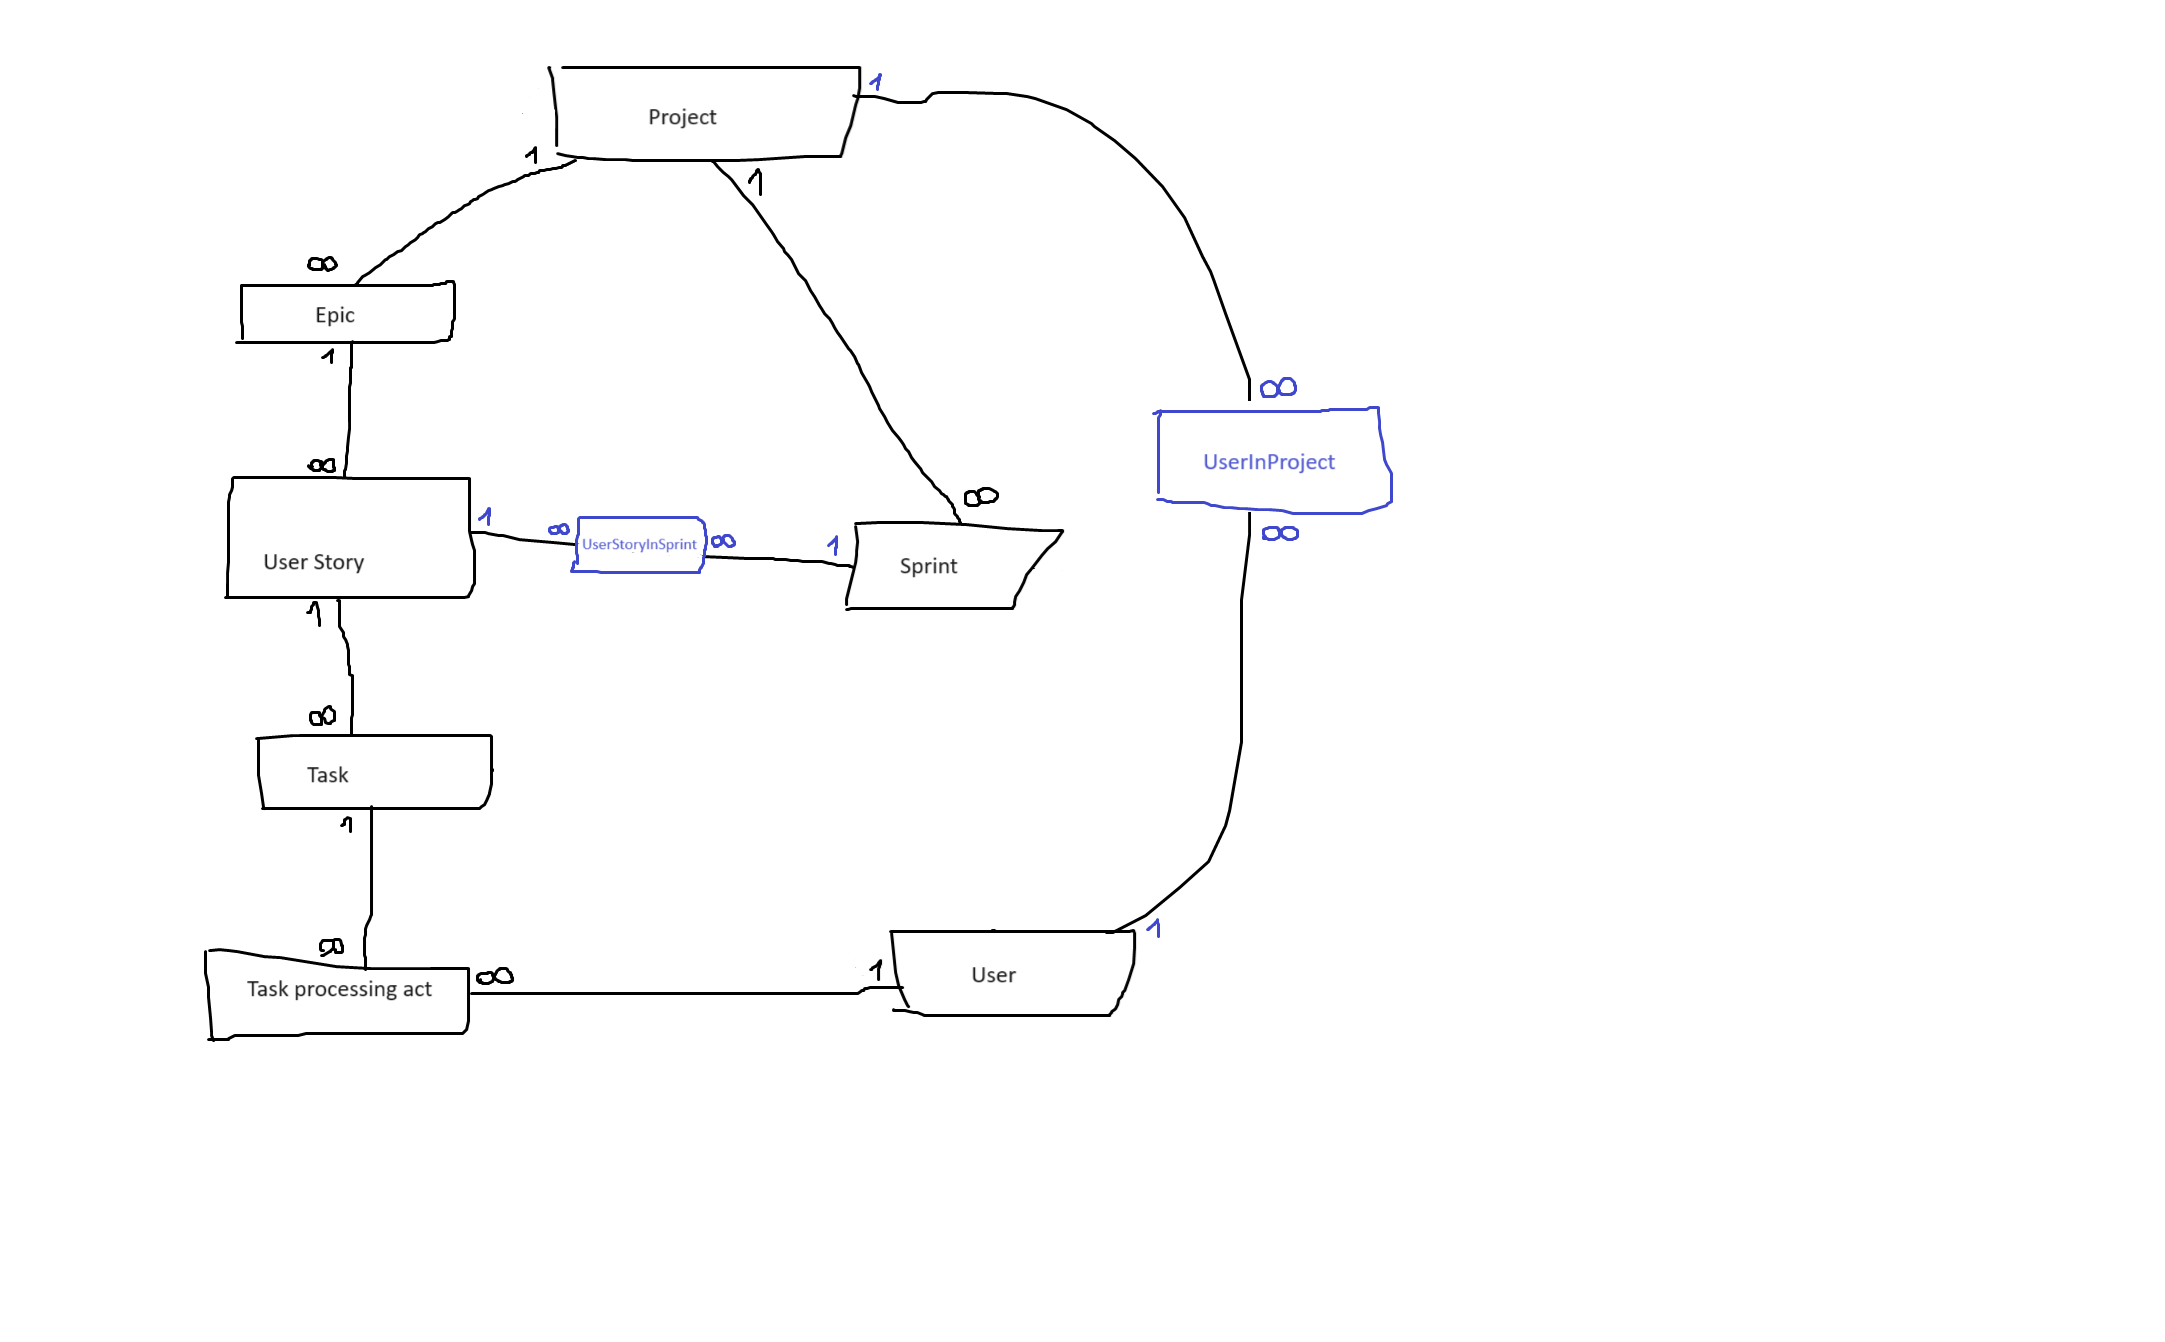
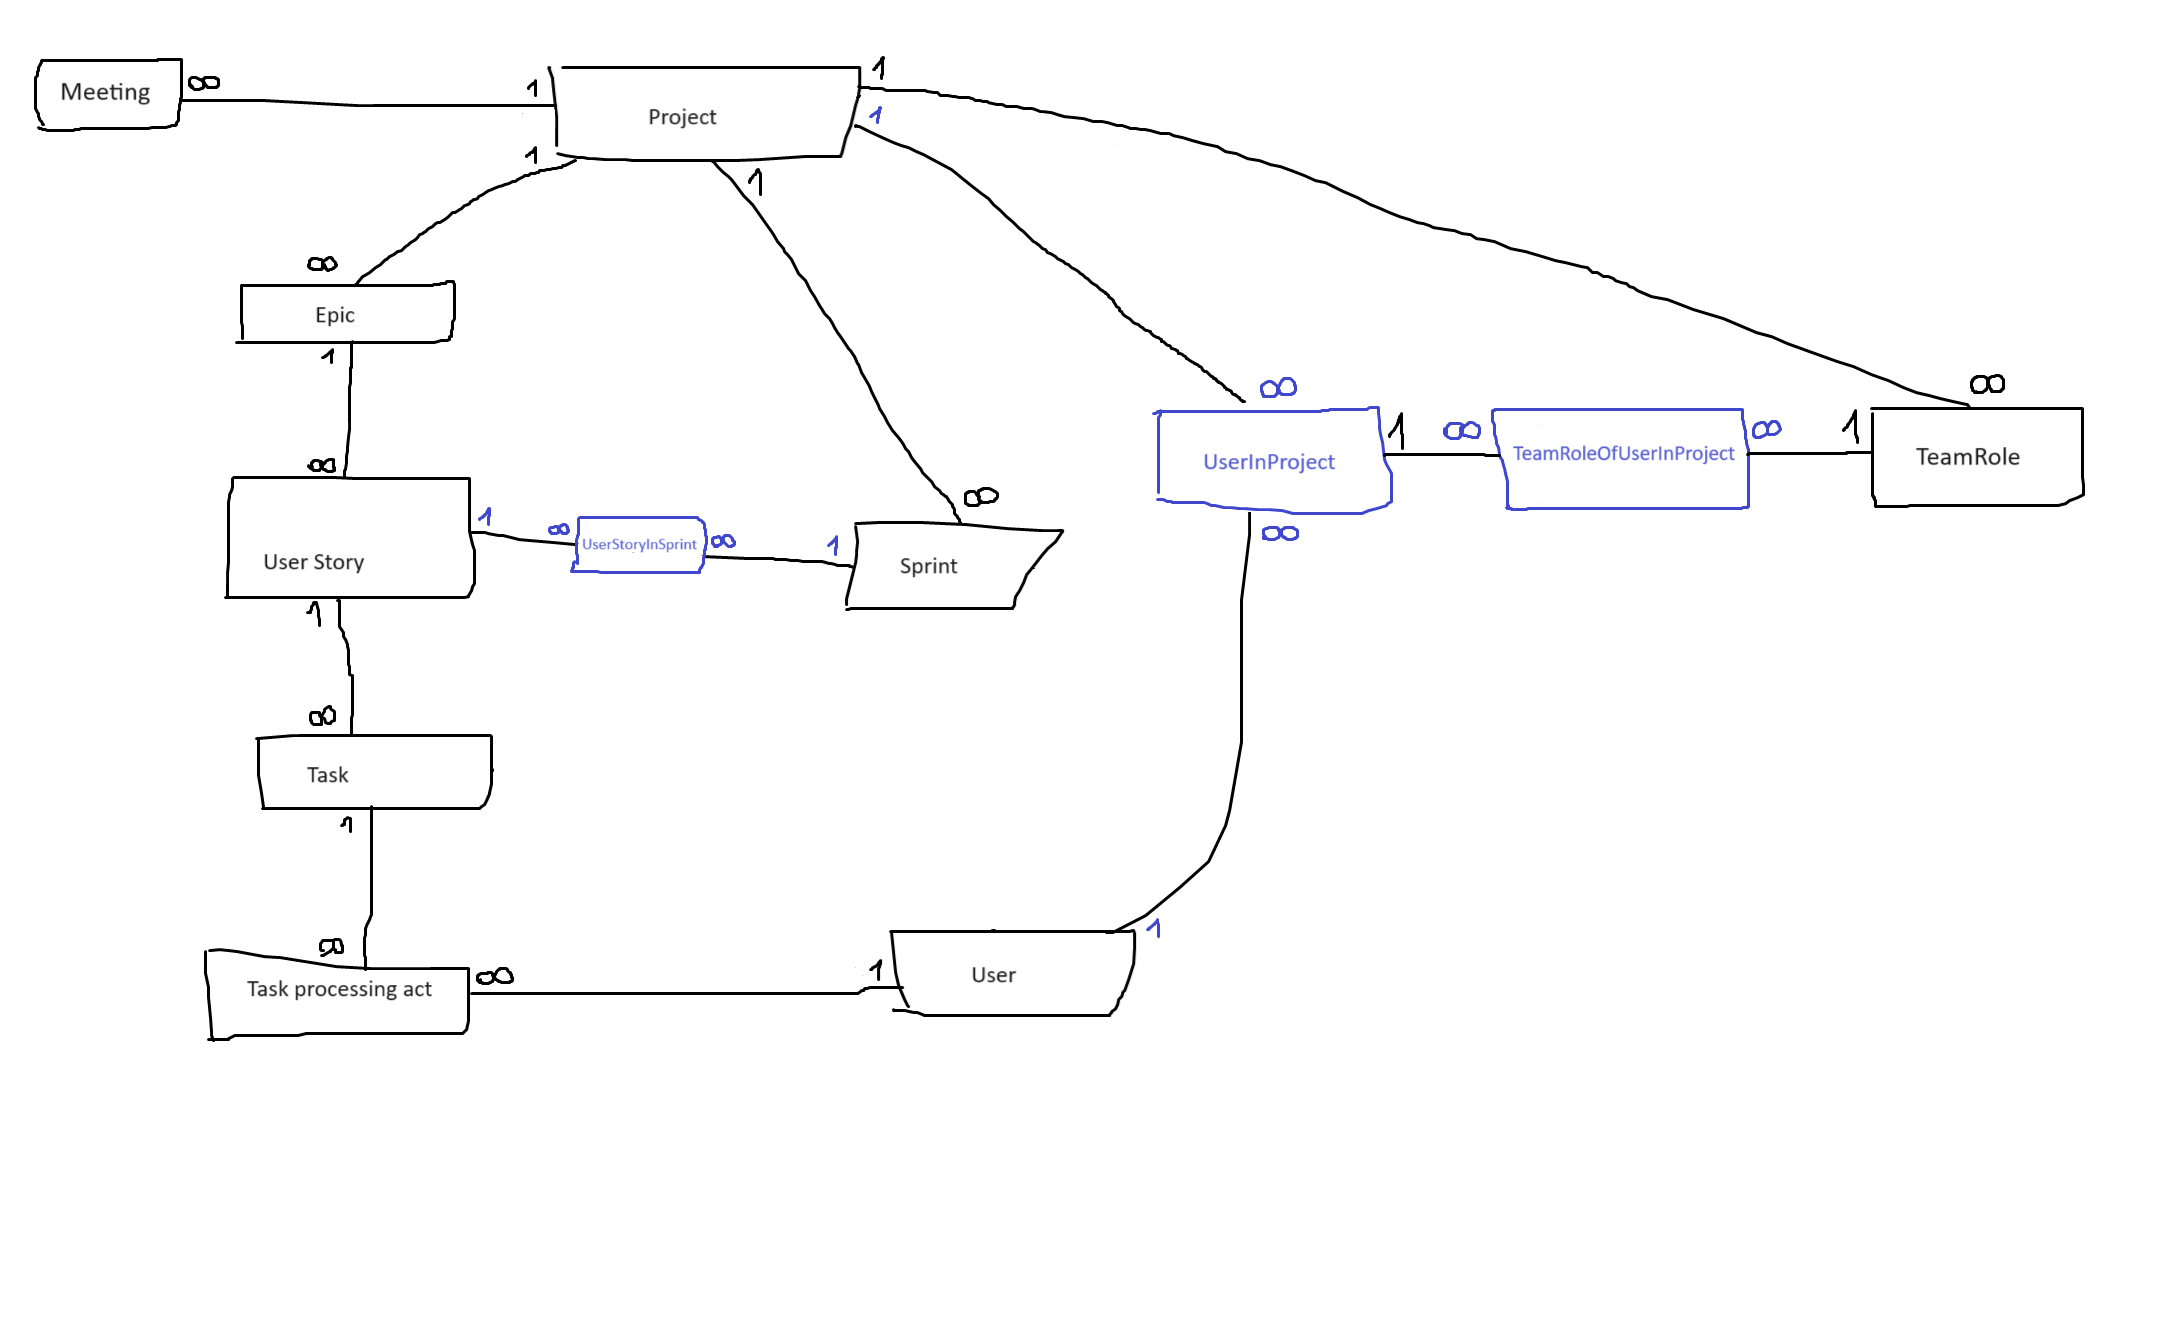
Added team and Scrum roles for UserInProject

diff --git a/backend/src/main/java/ua/drovolskyi/scrum_system/backend/entities/utils/UserInProject.java b/backend/src/main/java/ua/drovolskyi/scrum_system/backend/entities/utils/UserInProject.java
@@ -1,16 +1,22 @@
 package ua.drovolskyi.scrum_system.backend.entities.utils;
 
 import jakarta.persistence.*;
+import lombok.AllArgsConstructor;
+import lombok.Getter;
+import lombok.NoArgsConstructor;
+import lombok.Setter;
 import org.hibernate.type.TrueFalseConverter;
-import ua.drovolskyi.scrum_system.backend.entities.Project;
-import ua.drovolskyi.scrum_system.backend.entities.Sprint;
-import ua.drovolskyi.scrum_system.backend.entities.User;
-import ua.drovolskyi.scrum_system.backend.entities.UserStory;
+import ua.drovolskyi.scrum_system.backend.entities.*;
 
 import java.time.Instant;
+import java.util.List;
 
 @Entity
 @Table(name = "users_in_projects")
+@NoArgsConstructor
+@AllArgsConstructor
+@Getter
+@Setter
 public class UserInProject {
     @Id
     @GeneratedValue(strategy = GenerationType.IDENTITY)
@@ -24,7 +30,22 @@ public class UserInProject {
     @JoinColumn(name = "project_id", nullable = false)
     private Project project;
 
-    ///////////// NEED to add Scrum role and/or team role
+    // Scrum roles
+    @ElementCollection(targetClass = ScrumRole.class)
+    @CollectionTable
+    @Enumerated(EnumType.STRING) // https://stackoverflow.com/a/61282876
+    private List<ScrumRole> scrumRoles;
+
+    // team roles
+    @OneToMany(mappedBy = "userInProject", fetch = FetchType.LAZY)
+    private List<TeamRoleOfUserInProject> teamRoles;
+
+
+    @Column(name = "planned_capacity", nullable = false)
+    private Integer plannedCapacity;
+
+    @Column(name = "real_capacity", nullable = true)
+    private Integer realCapacity;
 
     @Column(name = "joined_timestamp", nullable = false)
     private Instant joinedTimestamp;

diff --git a/backend/src/main/java/ua/drovolskyi/scrum_system/backend/entities/utils/TeamRoleOfUserInProject.java b/backend/src/main/java/ua/drovolskyi/scrum_system/backend/entities/utils/TeamRoleOfUserInProject.java
@@ -7,27 +7,26 @@ import lombok.NoArgsConstructor;
 import lombok.Setter;
 import org.hibernate.type.TrueFalseConverter;
 import ua.drovolskyi.scrum_system.backend.entities.Project;
-import ua.drovolskyi.scrum_system.backend.entities.Sprint;
-import ua.drovolskyi.scrum_system.backend.entities.UserStory;
+import ua.drovolskyi.scrum_system.backend.entities.TeamRole;
 
 @Entity
-@Table(name = "user_stories_in_sprints")
+@Table(name = "team_roles_of_users_in_projects")
 @NoArgsConstructor
 @AllArgsConstructor
 @Getter
 @Setter
-public class UserStoryInSprint {
+public class TeamRoleOfUserInProject {
     @Id
     @GeneratedValue(strategy = GenerationType.IDENTITY)
     private Long id;
 
     @ManyToOne
-    @JoinColumn(name = "user_story_id", nullable = false)
-    private UserStory userStory;
+    @JoinColumn(name = "team_role_id", nullable = false)
+    private TeamRole teamRole;
 
     @ManyToOne
-    @JoinColumn(name = "sprint_id", nullable = false)
-    private Sprint sprint;
+    @JoinColumn(name = "user_in_project_id", nullable = false)
+    private UserInProject userInProject;
 
     @Column(name = "is_deleted", nullable = false)
     @Convert(converter = TrueFalseConverter.class)

diff --git a/backend/src/main/java/ua/drovolskyi/scrum_system/backend/entities/TeamRole.java b/backend/src/main/java/ua/drovolskyi/scrum_system/backend/entities/TeamRole.java
@@ -11,12 +11,12 @@ import java.util.Arrays;
 import java.util.List;
 
 @Entity
-@Table(name = "meeting_types")
+@Table(name = "team_roles")
 @NoArgsConstructor
 @AllArgsConstructor
 @Getter
 @Setter
-public class MeetingType {
+public class TeamRole {
     @Id
     @GeneratedValue(strategy = GenerationType.IDENTITY)
     private Long id;
@@ -35,7 +35,7 @@ public class MeetingType {
     @Convert(converter = TrueFalseConverter.class)
     private Boolean isDeleted;
 
-    // default (but deletable) meeting types
-    private static List<String> obviousMeetingTypeTitles = Arrays.asList(
-            "Sprint planning", "Daily standup", "Spring review", "Spring retrospective", "Grooming");
+    // default, obvious and not-deletable team roles
+    private static List<String> obviousTeamRoles = Arrays.asList(
+            "Teamlead", "Developer", "Tester");
 }

diff --git a/backend/src/main/java/ua/drovolskyi/scrum_system/backend/BackendApplication.java b/backend/src/main/java/ua/drovolskyi/scrum_system/backend/BackendApplication.java
@@ -10,8 +10,8 @@ import ua.drovolskyi.scrum_system.backend.entities.Status;
 public class BackendApplication {
 
     public static void main(String[] args) throws JsonProcessingException {
-//        SpringApplication.run(BackendApplication.class, args);
-        ObjectMapper objectMapper = new ObjectMapper();
+        SpringApplication.run(BackendApplication.class, args);
+/*        ObjectMapper objectMapper = new ObjectMapper();
 
         Status status = new Status(100L, 1, "32453", "description", null, false);
         System.out.println(status.getTitle());
@@ -19,6 +19,8 @@ public class BackendApplication {
 
         String stringStatus = objectMapper.writeValueAsString(status);
         System.out.println(stringStatus);
+
+ */
     }
 
 }

diff --git a/backend/src/main/java/ua/drovolskyi/scrum_system/backend/entities/ScrumRole.java b/backend/src/main/java/ua/drovolskyi/scrum_system/backend/entities/ScrumRole.java
@@ -1,0 +1,7 @@
+package ua.drovolskyi.scrum_system.backend.entities;
+
+public enum ScrumRole {
+    SCRUM_MASTER,
+    PRODUCT_OWNER,
+//  DEVELOPER // developer role is unnecessary;
+}
